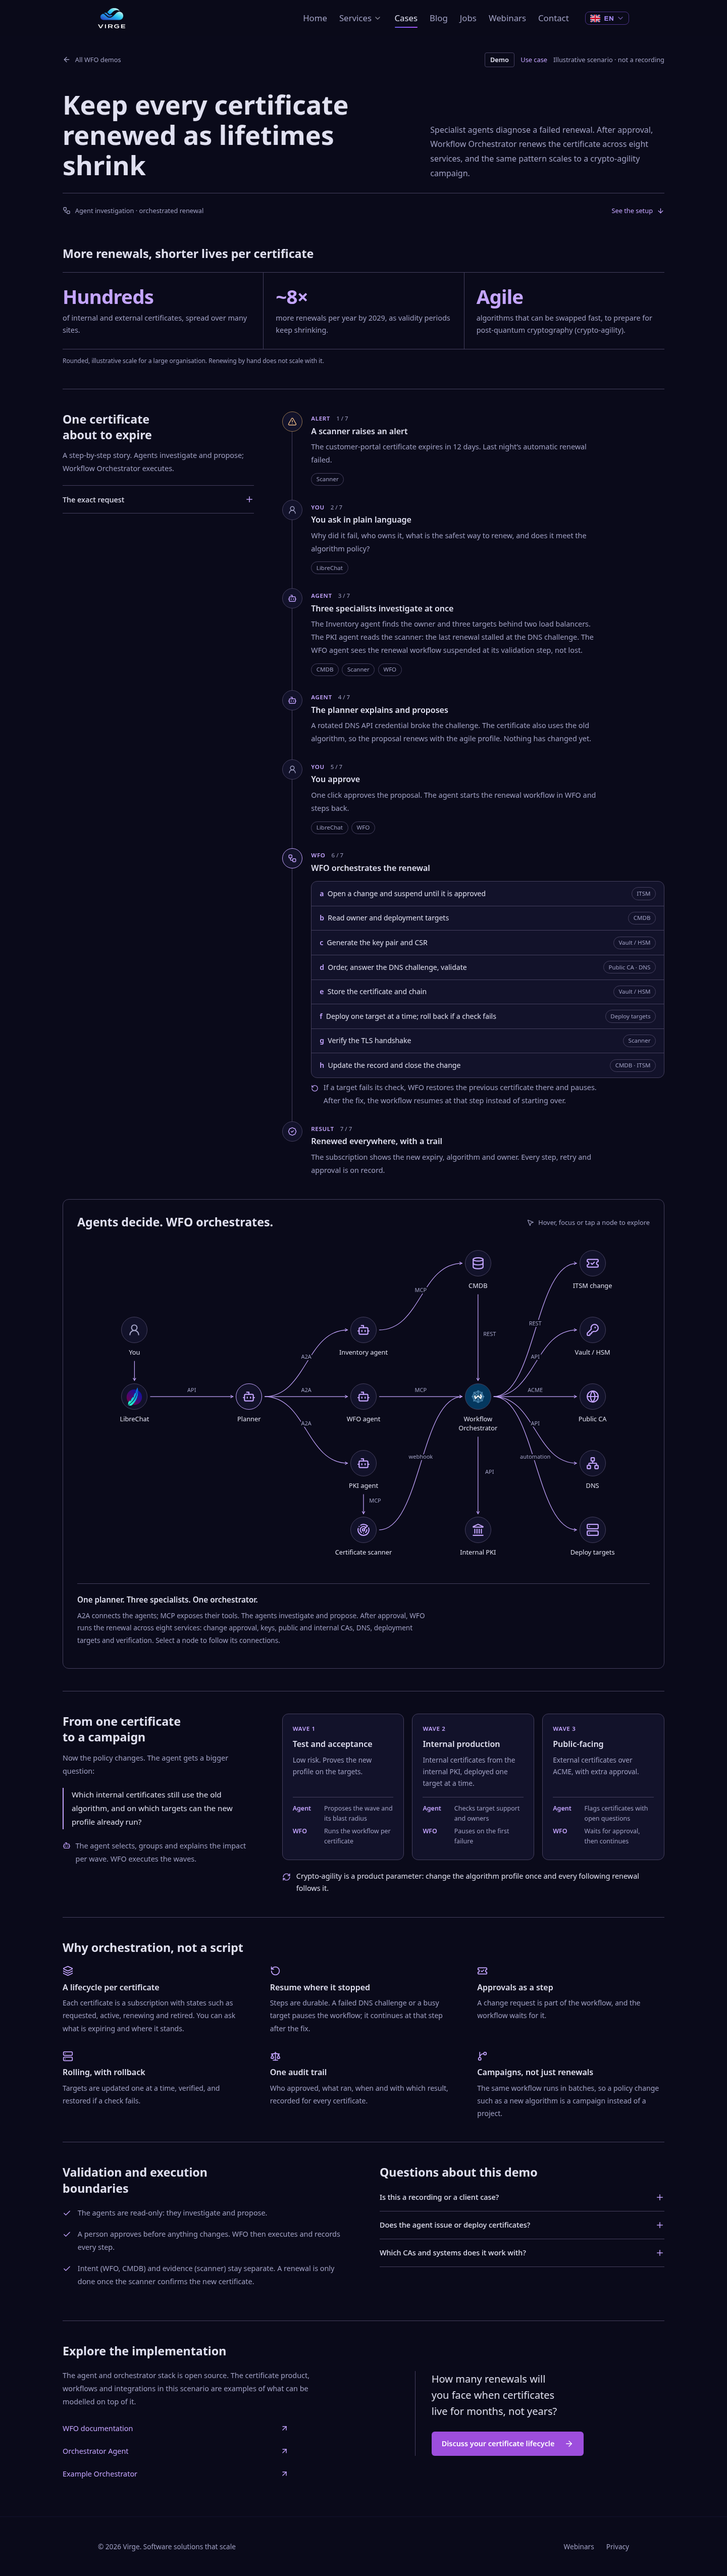
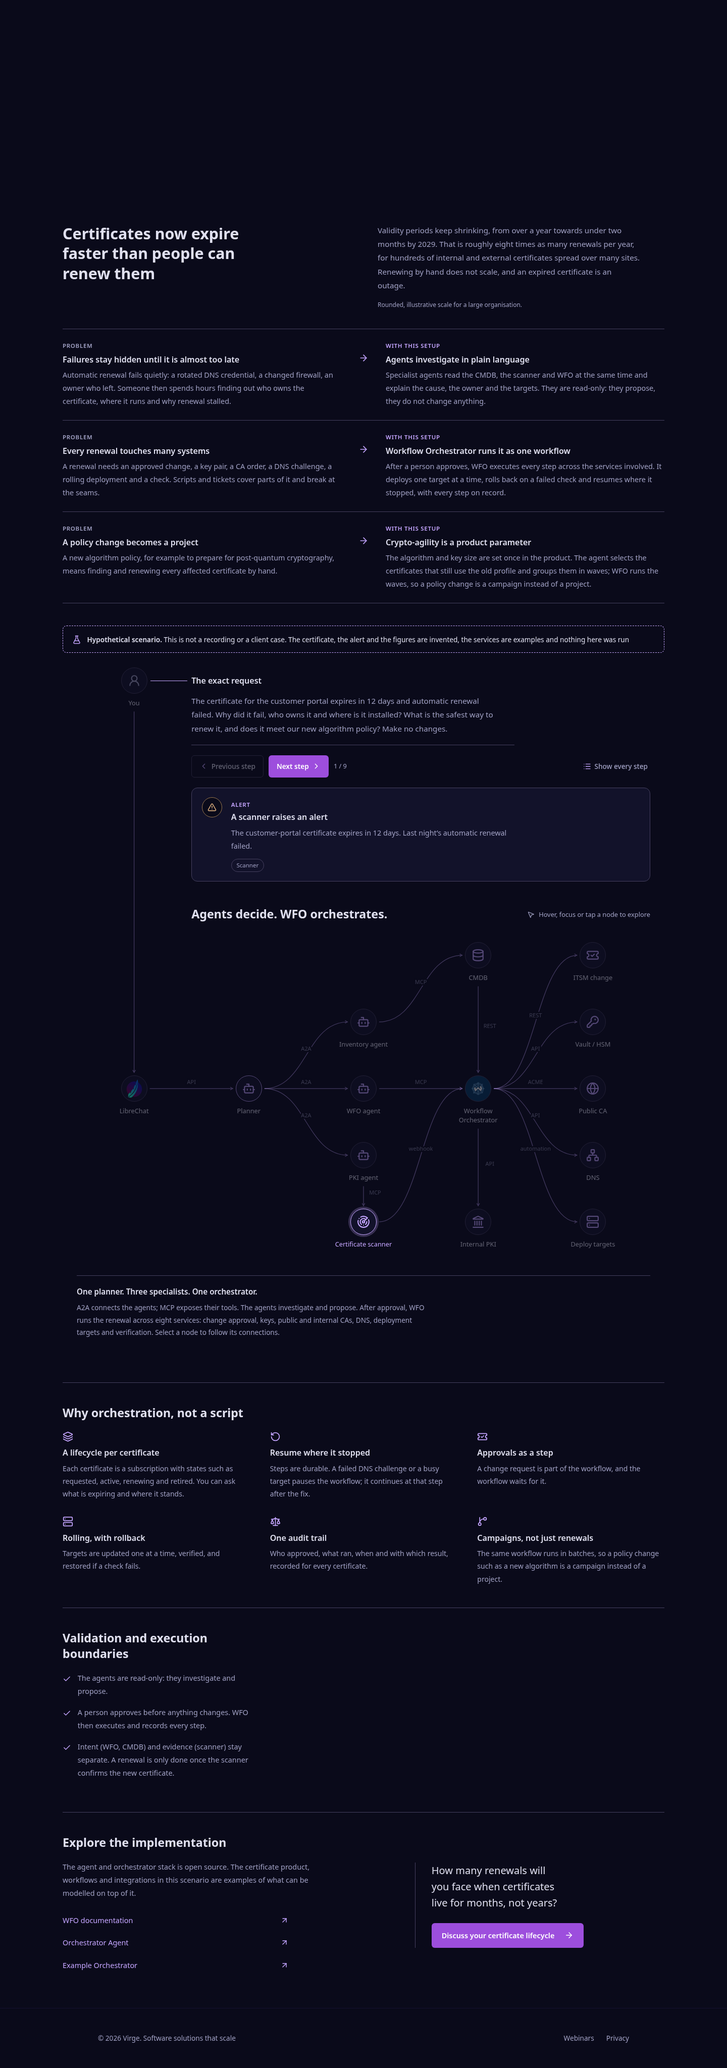
Refresh the PR preview screenshots
Recapture the Cases index, the WFO demos overview, the recorded-demo
architecture (default and hover, desktop and mobile) and the certificate
lifecycle page from the current source, using a production build so no
development toolbar appears. The architecture crops now include the You
node and the exact request, and the diagrams have no outline box. The
certificate crops show the nine-step walkthrough at step 6.

diff --git a/docs/previews/README.md b/docs/previews/README.md
@@ -16,12 +16,18 @@ The four `cases-overview-en-{desktop,mobile}.png` and `wfo-demo-overview-en-{des
 
 Captured on 2026-11-09 from the final local source with Chromium at 1440px (desktop) and 390px (mobile) widths, with reduced motion enabled. Full document heights were painted before capture to avoid off-screen artifacts; the Astro development toolbar was hidden. These are unedited browser screenshots of the original navy/purple theme. The WFO badge has 4px corners; the dark agent icon sits in a rounded purple outline on white.
 
+**Refreshed 2026-11-11** from commit `2caf9ad0` (production build served with `astro preview`, so no development toolbar). The overview now also shows a fifth card for the certificate lifecycle use case.
+
 ## Combined interactive architecture
 
 The four `wfo-architecture-en-{desktop,mobile}[-hover].png` screenshots show the final architecture on `/en/cases/wfo-outage-triage/`. The default captures show the combined overview and technical graph; the hover captures highlight `network-mcp` and explain its separate access to WFO intent and SR Linux measurements. LibreChat, Workflow Orchestrator and NetBox use their service logos. The WFO image is clipped within its circle and its background matches the logo’s blue.
 
 Captured on 2026-11-10 from the committed source using Chromium at 1440 × 1500 and 390 × 1500 viewports, with reduced motion enabled. Each image is a browser crop of the complete architecture figure; the taller viewport keeps the sticky navigation outside the crop. The Astro development toolbar was hidden, and the captured pixels were not edited. PNG metadata records the route, capture time, viewport, crop, interaction state and source-file SHA-256 hashes. These captures use the active navy/purple theme and system typography; the shared component provides equivalent Dutch behavior.
 
+**Refreshed 2026-11-11** from commit `2caf9ad0`: the crops now start at the entry row, with the `You` node and the exact request above the diagram, and the diagram no longer has an outline box. Viewports and interaction states are unchanged.
+
 ## Certificate lifecycle use case
 
-`certificate-lifecycle-en-{desktop,mobile}.png` show the full `/en/cases/wfo-certificate-lifecycle/` page, and `certificate-lifecycle-architecture-en-{desktop,mobile}.png` crop its interactive architecture (Workflow Orchestrator as hub, eight services, three specialist agents). Captured on 2026-11-10 with Chromium at 1440px and 390px, reduced motion enabled, dev toolbar and sticky navigation hidden. The scenario is illustrative, not a recording; no organisation is named and figures are rounded.
+`certificate-lifecycle-en-{desktop,mobile}.png` show the full `/en/cases/wfo-certificate-lifecycle/` page (problem-and-fix section, hypothetical-scenario alert, walkthrough and architecture). `certificate-lifecycle-architecture-en-{desktop,mobile}.png` crop the walkthrough and its interactive architecture with **step 6 of 9** active: the step card lists WFO's eight sub-steps, and the diagram lights Workflow Orchestrator and the services it touches while the rest recede.
+
+Captured on 2026-11-11 from commit `2caf9ad0` with Chromium at 1440px and 390px, reduced motion enabled, using a production build (no development toolbar); the sticky navigation is hidden. The architecture crops use 1500px-tall viewports. PNG metadata on the crops records the route, state, viewport, crop and source hashes. The scenario is hypothetical, not a recording; no organisation is named and figures are rounded.
